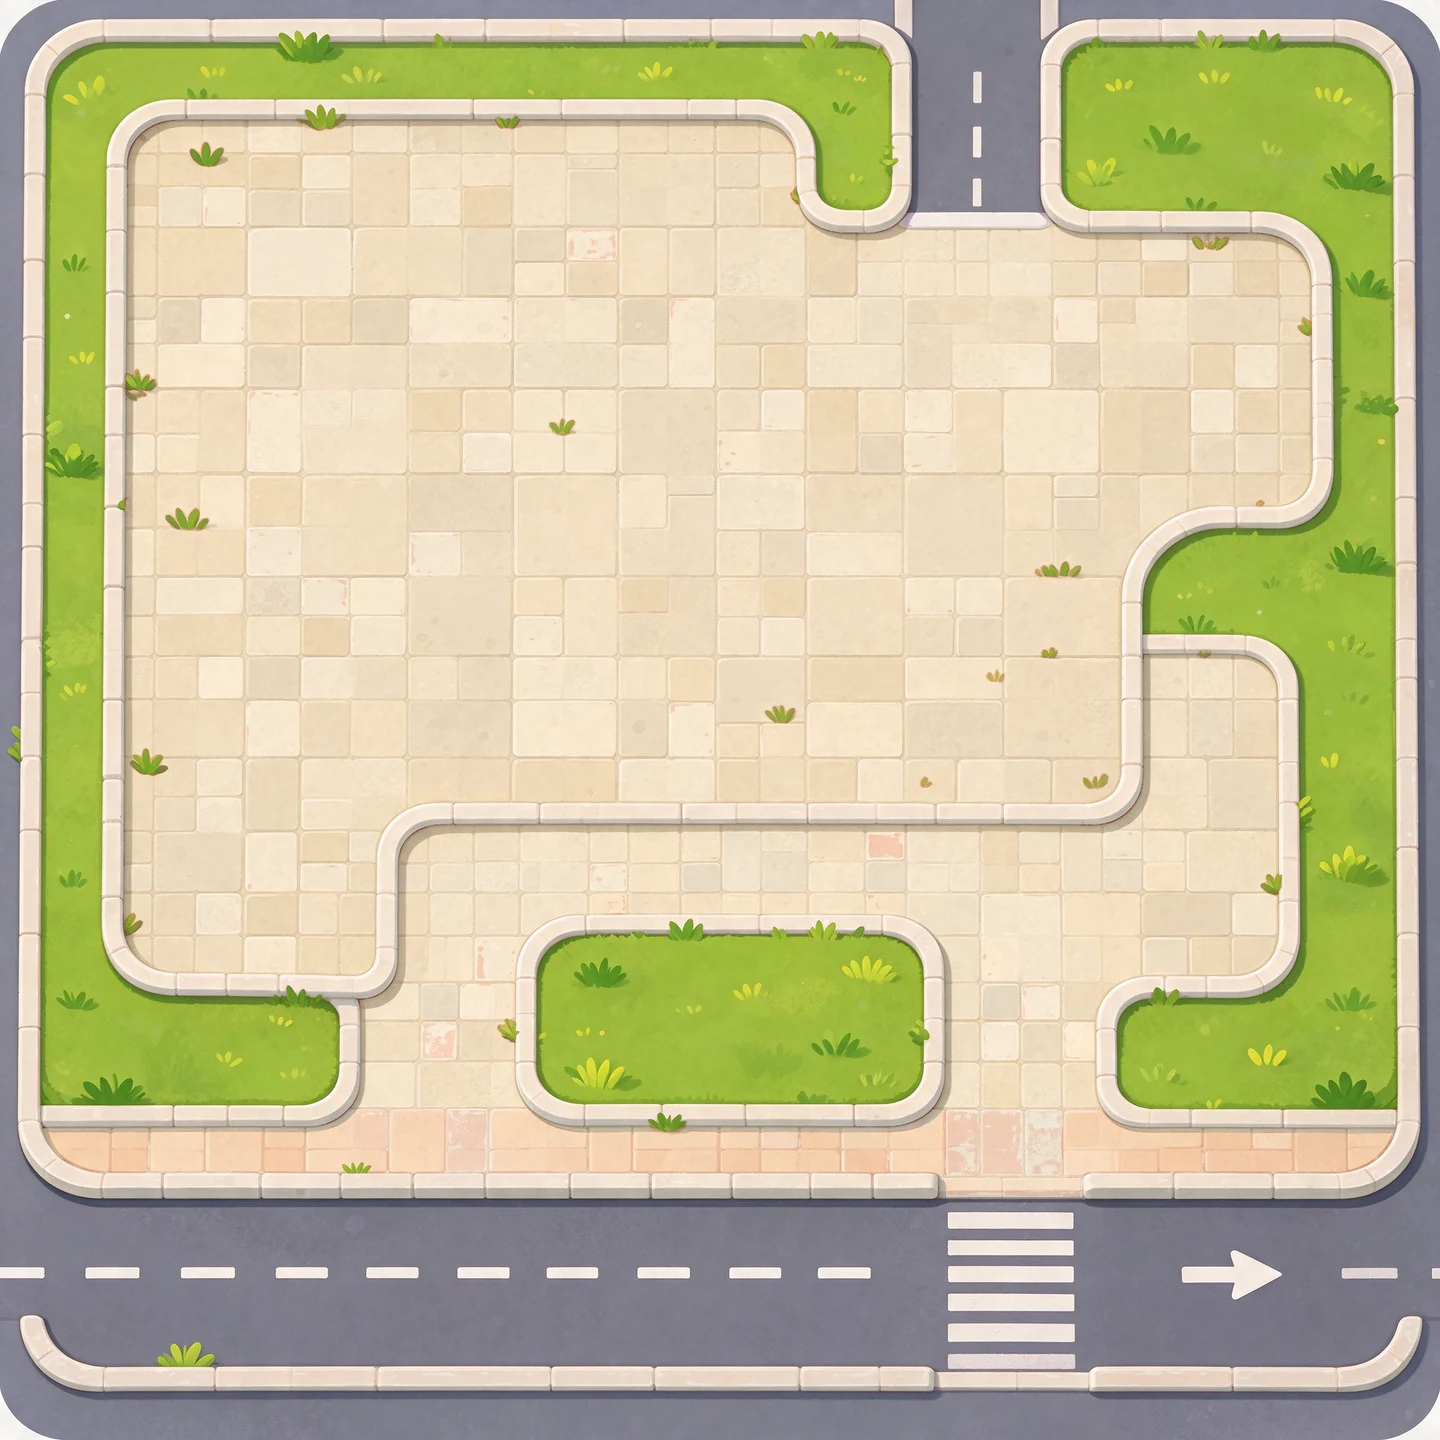
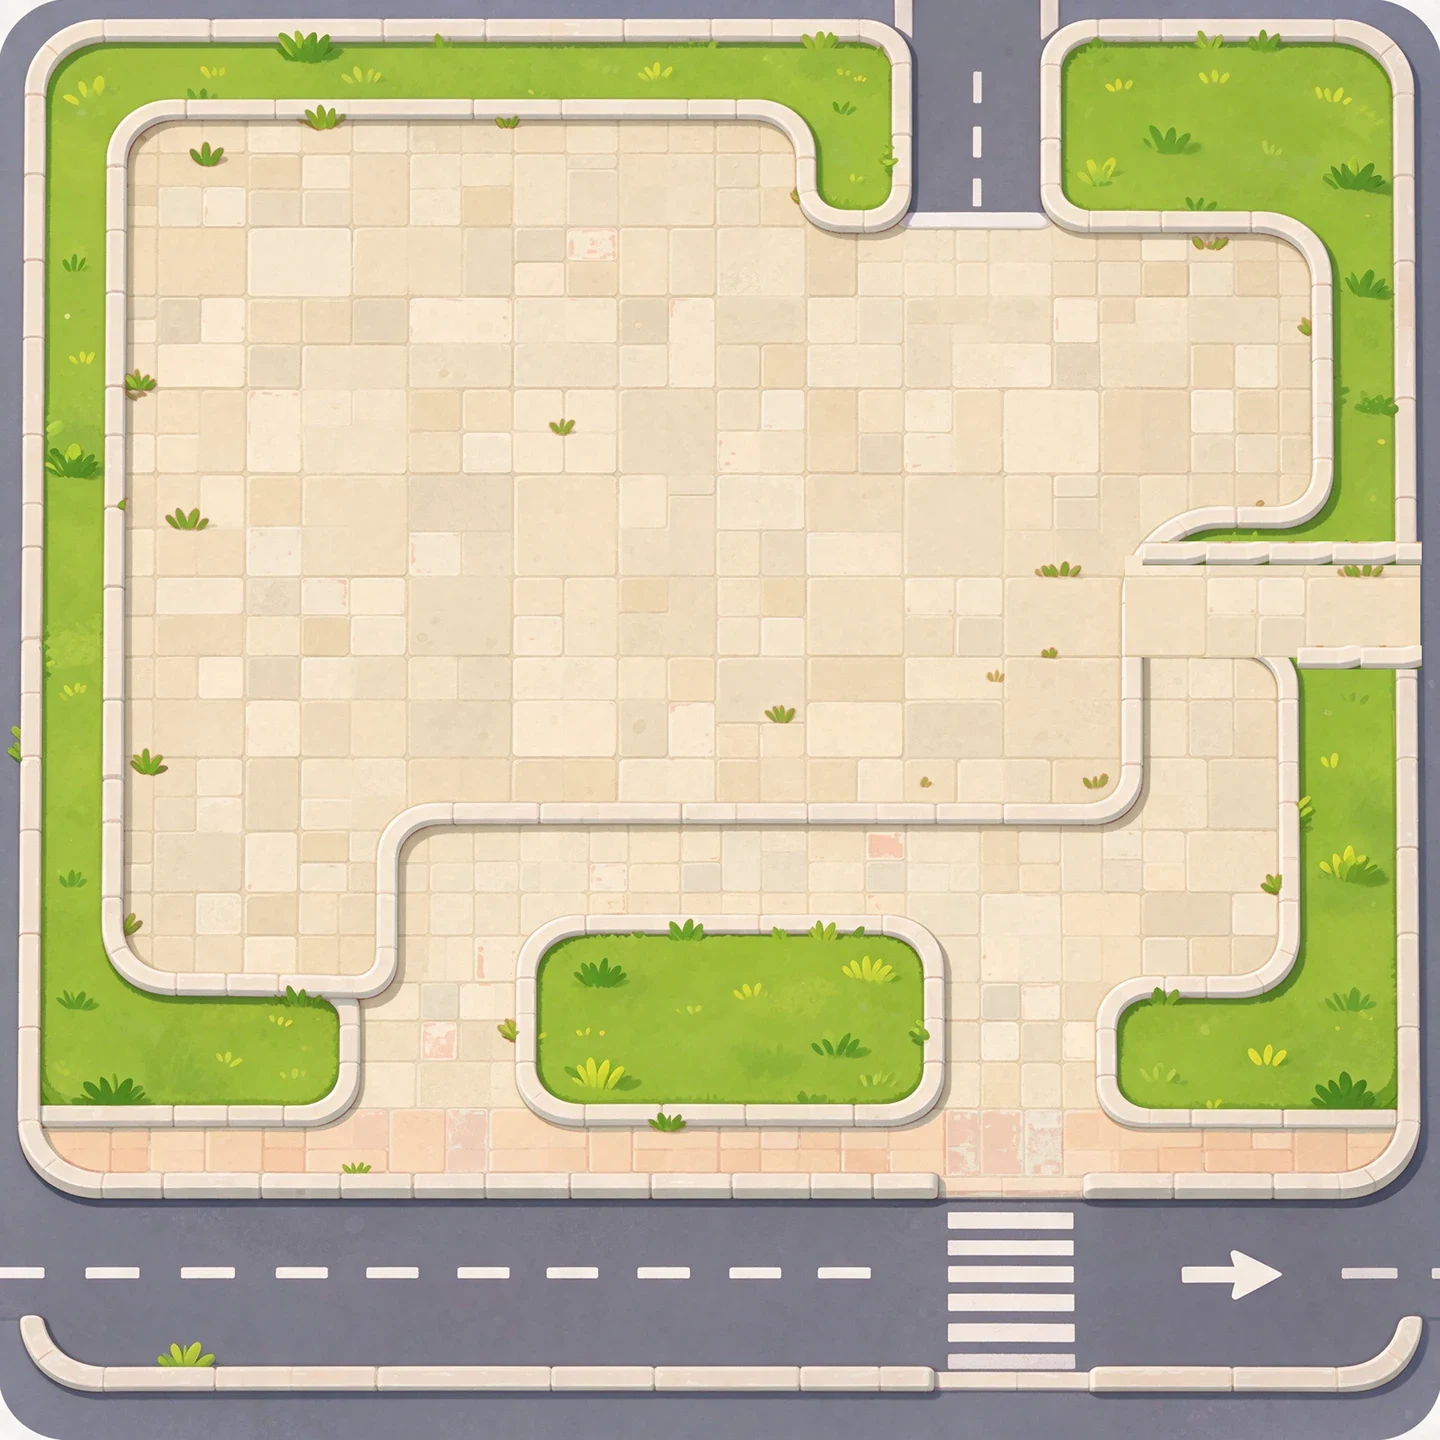
Пошта: заезд для грузовика нарисован на подложке
Claude-Session: https://claude.ai/code/session_018akPrywKgYRcJbbAFRjdMf

Changed region(s): [[0.7812, 0.375, 1.0, 0.4688]]

diff --git a/tools/editor/index.html b/tools/editor/index.html
@@ -136,7 +136,7 @@ function onPath(x,y,pad,skip,all){pad=pad||0;for(var i=0;i<paths.length;i++){var
 function cleanPaths(a){return (Array.isArray(a)?a:[]).filter(function(p){return p&&COL[p.st]&&(p.ell||(Array.isArray(p.pts)&&p.pts.length))})}
 var world=document.getElementById('world'),stage=document.getElementById('stage');
 function ground(){var g='',road='#7f858c';
- g+='<rect width="832" height="832" fill="'+road+'"/><rect x="'+O+'" y="'+O+'" width="'+B+'" height="'+B+'" fill="#99bc65" stroke="#c9c2b0" stroke-width="5"/>'+(GROUND&&GROUND!=='grass'?'<rect x="'+(O+3)+'" y="'+(O+3)+'" width="'+(B-6)+'" height="'+(B-6)+'" fill="'+fillOf(GROUND)+'"/>':'');if(BGIMG)g+='<image href="'+BGIMG+'?v=4" x="'+O+'" y="'+O+'" width="'+B+'" height="'+B+'" preserveAspectRatio="none"/>';
+ g+='<rect width="832" height="832" fill="'+road+'"/><rect x="'+O+'" y="'+O+'" width="'+B+'" height="'+B+'" fill="#99bc65" stroke="#c9c2b0" stroke-width="5"/>'+(GROUND&&GROUND!=='grass'?'<rect x="'+(O+3)+'" y="'+(O+3)+'" width="'+(B-6)+'" height="'+(B-6)+'" fill="'+fillOf(GROUND)+'"/>':'');if(BGIMG)g+='<image href="'+BGIMG+'?v=5" x="'+O+'" y="'+O+'" width="'+B+'" height="'+B+'" preserveAspectRatio="none"/>';
  for(var x=0;x<W;x+=40){g+='<line x1="'+x+'" y1="28" x2="'+(x+20)+'" y2="28" stroke="#fff" stroke-width="3"/><line x1="'+x+'" y1="804" x2="'+(x+20)+'" y2="804" stroke="#fff" stroke-width="3"/><line x1="28" y1="'+x+'" x2="28" y2="'+(x+20)+'" stroke="#fff" stroke-width="3"/><line x1="804" y1="'+x+'" x2="804" y2="'+(x+20)+'" stroke="#fff" stroke-width="3"/>'}
  var bb=cur&&blk(cur);if(bb&&(bb.r===1||bb.r===2)){var y0=bb.r===1?776:0;g+=railSVG(0,y0,W,56)}
  document.getElementById('base').innerHTML=g}
@@ -154,7 +154,7 @@ function bad(it){if(!it.t||it.b>O+B+4||it.w<80)return false;if(it.n==='fount'||i
 function zi(it){return Math.round(it.b+(it.z||0))+2000}
 function render(){var s='',min=40/sc;
  items.forEach(function(it,i){var h=it.w*(ASP[it.n]||1),bw=Math.max(it.w,min),bh=Math.max(h,min);
-  s+='<div class="it'+(i===sel&&mode==='move'?' sel':'')+(bad(it)?' bad':'')+'" data-i="'+i+'" style="left:'+(it.x-bw/2)+'px;top:'+(it.b-bh)+'px;width:'+bw+'px;height:'+bh+'px;z-index:'+zi(it)+'"><img src="art/'+it.n+'.webp?v=4" style="width:'+it.w+'px;height:'+h+'px;'+(it.f?'transform:scaleX(-1)':'')+'"></div>'});
+  s+='<div class="it'+(i===sel&&mode==='move'?' sel':'')+(bad(it)?' bad':'')+'" data-i="'+i+'" style="left:'+(it.x-bw/2)+'px;top:'+(it.b-bh)+'px;width:'+bw+'px;height:'+bh+'px;z-index:'+zi(it)+'"><img src="art/'+it.n+'.webp?v=5" style="width:'+it.w+'px;height:'+h+'px;'+(it.f?'transform:scaleX(-1)':'')+'"></div>'});
  world.querySelectorAll('.it').forEach(function(e){e.remove()});world.insertAdjacentHTML('beforeend',s);
  var on=sel>=0;['bSm','bBg','bFl','bDup','bDel','bL','bU','bD','bR','bFw','bBk','bRs','bRp'].forEach(function(id){document.getElementById(id).disabled=!on});document.getElementById('bUn').disabled=!hist.length;if(on&&items[sel]&&items[sel].t)document.getElementById('bDel').disabled=true;
  var nb=items.filter(bad).length;if(mode==='pan'){document.getElementById('hint').textContent='Ведите пальцем — двигается карта. Постройки не трогаются';return}if(replacing&&sel>=0&&mode==='move'){document.getElementById('hint').textContent='Выберите в ленте «Добавить», на что заменить';var _on=true;['bSm','bBg','bFl','bDel','bL','bU','bD','bR','bFw','bBk','bRs','bRp'].forEach(function(id){document.getElementById(id).disabled=false});return}if(mode!=='move'){document.getElementById('hint').textContent=mode==='draw'?(hpend?'Нажмите, куда передвинуть конец':mpend?'Нажмите, куда переставить дорожку':(psel>=0?'Тяните дорожку или кружок на конце. Нажмите на дорожку — потом на место':'Ведите пальцем — дорожка ложится. Нажмите на дорожку, чтобы править')):'Проведите по дорожке — она исчезнет';document.getElementById('pUn').disabled=!hist.length;return}document.getElementById('hint').textContent=nb?('Красным — стоит на дорожке ('+nb+')'):(on?(items[sel]&&items[sel].t?'Постройка из урока: двигать можно, удалять нельзя. Нажмите на газон — переедет':'Нажмите на газон — объект переедет туда'):'Нажмите на постройку (выделится синим), потом тяните её или нажмите на место')}
@@ -270,7 +270,7 @@ var pal=document.getElementById('pal');var pcat=document.getElementById('pcat');
 function fillPal(){pal.innerHTML='';var list=CURCAT==='all'?PAL:(PCAT.filter(function(c){return c[0]===CURCAT})[0]||[0,0,0,[]])[3];list.forEach(addPal)}
 (function(){var h='<button data-c="all" class="on">Все</button>';PCAT.forEach(function(c){h+='<button data-c="'+c[0]+'" title="'+c[2]+'">'+c[1]+' '+c[2]+'</button>'});pcat.innerHTML=h;
  pcat.querySelectorAll('button').forEach(function(bt){bt.onclick=function(){CURCAT=bt.dataset.c;pcat.querySelectorAll('button').forEach(function(x){x.classList.toggle('on',x===bt)});fillPal()}})})();
-function addPal(n){var d=document.createElement('div');d.innerHTML='<img src="art/'+n+'.webp?v=4">';d.onclick=function(){if(replacing&&sel>=0&&items[sel]){snap();var it=items[sel];it.n=n;it.w=PALW[n]||it.w;it.f=0;replacing=false;document.getElementById('bRp').classList.remove('on');render();save();document.getElementById('stage').scrollIntoView({behavior:'smooth',block:'center'});return}snap();items.push({n:n,x:CX+(Math.random()*120-60),b:CY+150,w:PALW[n]||80,f:0});items[items.length-1].x=Math.round(items[items.length-1].x);sel=items.length-1;render();save()};pal.appendChild(d)}
+function addPal(n){var d=document.createElement('div');d.innerHTML='<img src="art/'+n+'.webp?v=5">';d.onclick=function(){if(replacing&&sel>=0&&items[sel]){snap();var it=items[sel];it.n=n;it.w=PALW[n]||it.w;it.f=0;replacing=false;document.getElementById('bRp').classList.remove('on');render();save();document.getElementById('stage').scrollIntoView({behavior:'smooth',block:'center'});return}snap();items.push({n:n,x:CX+(Math.random()*120-60),b:CY+150,w:PALW[n]||80,f:0});items[items.length-1].x=Math.round(items[items.length-1].x);sel=items.length-1;render();save()};pal.appendChild(d)}
 fillPal();
 ground();
 function loadLocal(id){try{var ls=localStorage.getItem(keyOf(id));var _l=ls?JSON.parse(ls):null;var it=_l?clean(Array.isArray(_l)?_l:_l.items):[];if(!it.length)it=blkInit(id);var pa=(_l&&!Array.isArray(_l)&&Array.isArray(_l.paths))?cleanPaths(_l.paths):defPaths();if(id==='aina')markAina(it);return {items:it,paths:pa,ground:(_l&&_l.ground)||'grass'}}catch(e){var a=blkInit(id);if(id==='aina')markAina(a);return {items:a,paths:defPaths()}}}
@@ -282,9 +282,9 @@ function openBlock(id){cur=id;ground();if(stT){clearTimeout(stT);}cur=id;var b=b
  try{localStorage.setItem('tilashar-editor-cur',id)}catch(e){}
  fromDb(id,function(v){if(cur!==id||drag||stroke||hdrag||bdrag)return;items=JSON.parse(JSON.stringify(v.items));paths=JSON.parse(JSON.stringify(v.paths));GROUND=v.ground||'grass';BGIMG=v.bg||BGDEF[id]||'';ground();sel=-1;hist=[];drawPaths();render();setSt('Загружено ✓')})}
 function tileHTML(b,v,L,T,S){var k=S/832,h='<div class="tile" data-b="'+b.id+'" style="left:'+L+'px;top:'+T+'px;width:'+S+'px;height:'+S+'px"><div class="tw" style="transform:scale('+k+')">';
- h+='<svg width="832" height="832" style="position:absolute;left:0;top:0"><rect width="832" height="832" fill="#7f858c"/><rect x="'+O+'" y="'+O+'" width="'+B+'" height="'+B+'" fill="'+(b.id==='spare'?'#c5dca6':'#99bc65')+'"/>'+(v.ground&&v.ground!=='grass'?'<rect x="'+O+'" y="'+O+'" width="'+B+'" height="'+B+'" fill="'+fillOf(v.ground)+'"/>':'')+((v.bg||BGDEF[b.id])?'<image href="'+(v.bg||BGDEF[b.id])+'?v=4" x="'+O+'" y="'+O+'" width="'+B+'" height="'+B+'" preserveAspectRatio="none"/>':'')+'<g clip-path="url(#blk)">';
+ h+='<svg width="832" height="832" style="position:absolute;left:0;top:0"><rect width="832" height="832" fill="#7f858c"/><rect x="'+O+'" y="'+O+'" width="'+B+'" height="'+B+'" fill="'+(b.id==='spare'?'#c5dca6':'#99bc65')+'"/>'+(v.ground&&v.ground!=='grass'?'<rect x="'+O+'" y="'+O+'" width="'+B+'" height="'+B+'" fill="'+fillOf(v.ground)+'"/>':'')+((v.bg||BGDEF[b.id])?'<image href="'+(v.bg||BGDEF[b.id])+'?v=5" x="'+O+'" y="'+O+'" width="'+B+'" height="'+B+'" preserveAspectRatio="none"/>':'')+'<g clip-path="url(#blk)">';
  (v.paths||[]).forEach(function(p){h+=pathSVG(p)});h+='</g></svg>';
- (v.items||[]).slice().sort(function(a,c){return zi(a)-zi(c)}).forEach(function(it){var hh=it.w*(ASP[it.n]||1);h+='<img src="art/'+it.n+'.webp?v=4" style="left:'+(it.x-it.w/2)+'px;top:'+(it.b-hh)+'px;width:'+it.w+'px;height:'+hh+'px;'+(it.f?'transform:scaleX(-1)':'')+'">'});
+ (v.items||[]).slice().sort(function(a,c){return zi(a)-zi(c)}).forEach(function(it){var hh=it.w*(ASP[it.n]||1);h+='<img src="art/'+it.n+'.webp?v=5" style="left:'+(it.x-it.w/2)+'px;top:'+(it.b-hh)+'px;width:'+it.w+'px;height:'+hh+'px;'+(it.f?'transform:scaleX(-1)':'')+'">'});
  return h+'</div><div class="tl">'+b.th+' '+b.nm+'</div></div>'}
 function showCity(){if(cur&&items.length){save()}document.getElementById('edView').classList.add('hide');document.getElementById('cityView').classList.remove('hide');document.getElementById('bname').textContent='Весь город';
  var g=document.getElementById('cityGrid'),W0=g.clientWidth,gap=Math.max(6,W0*0.02),riv=Math.max(10,W0*0.035),S=(W0-gap*5-riv)/4;
